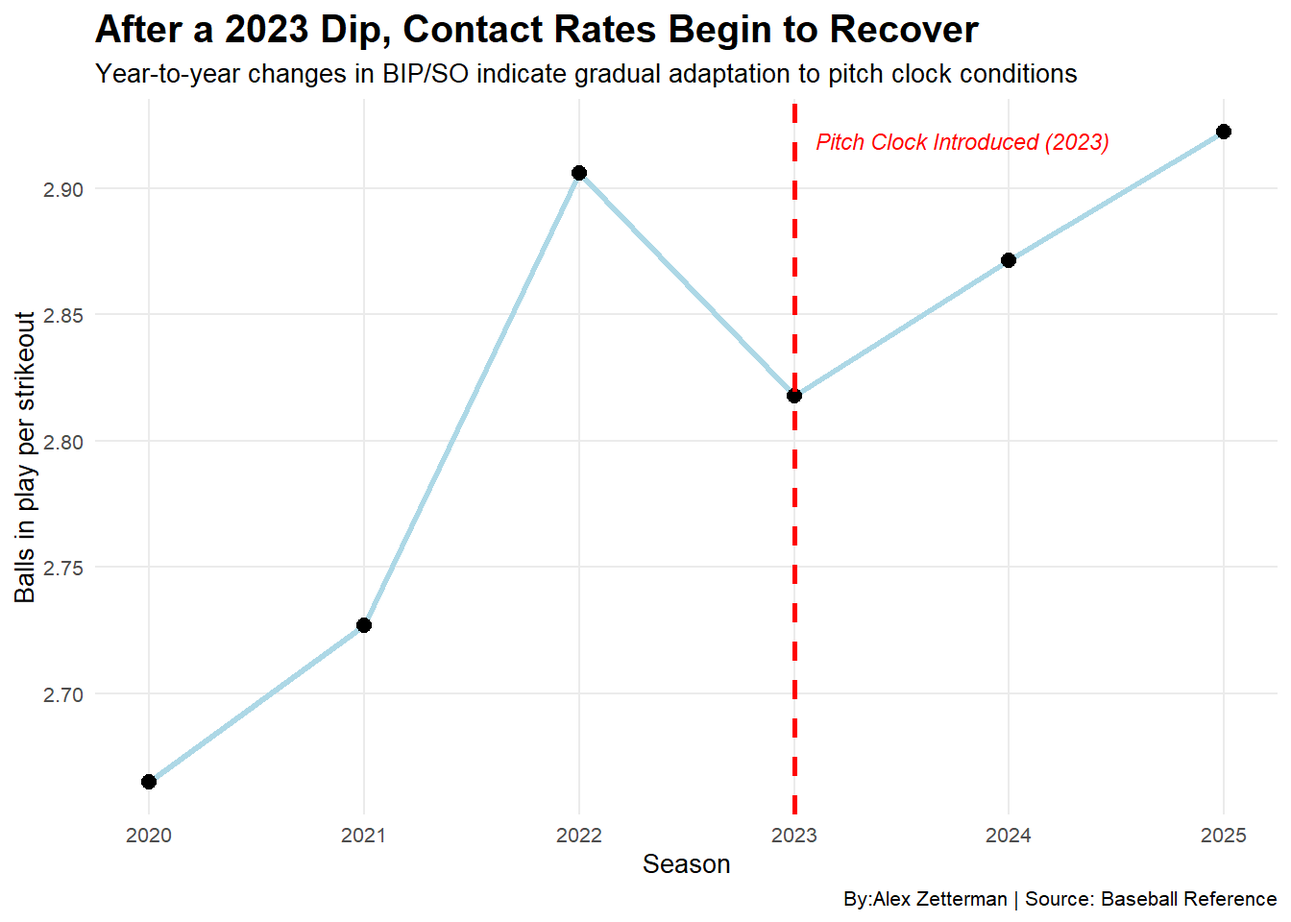
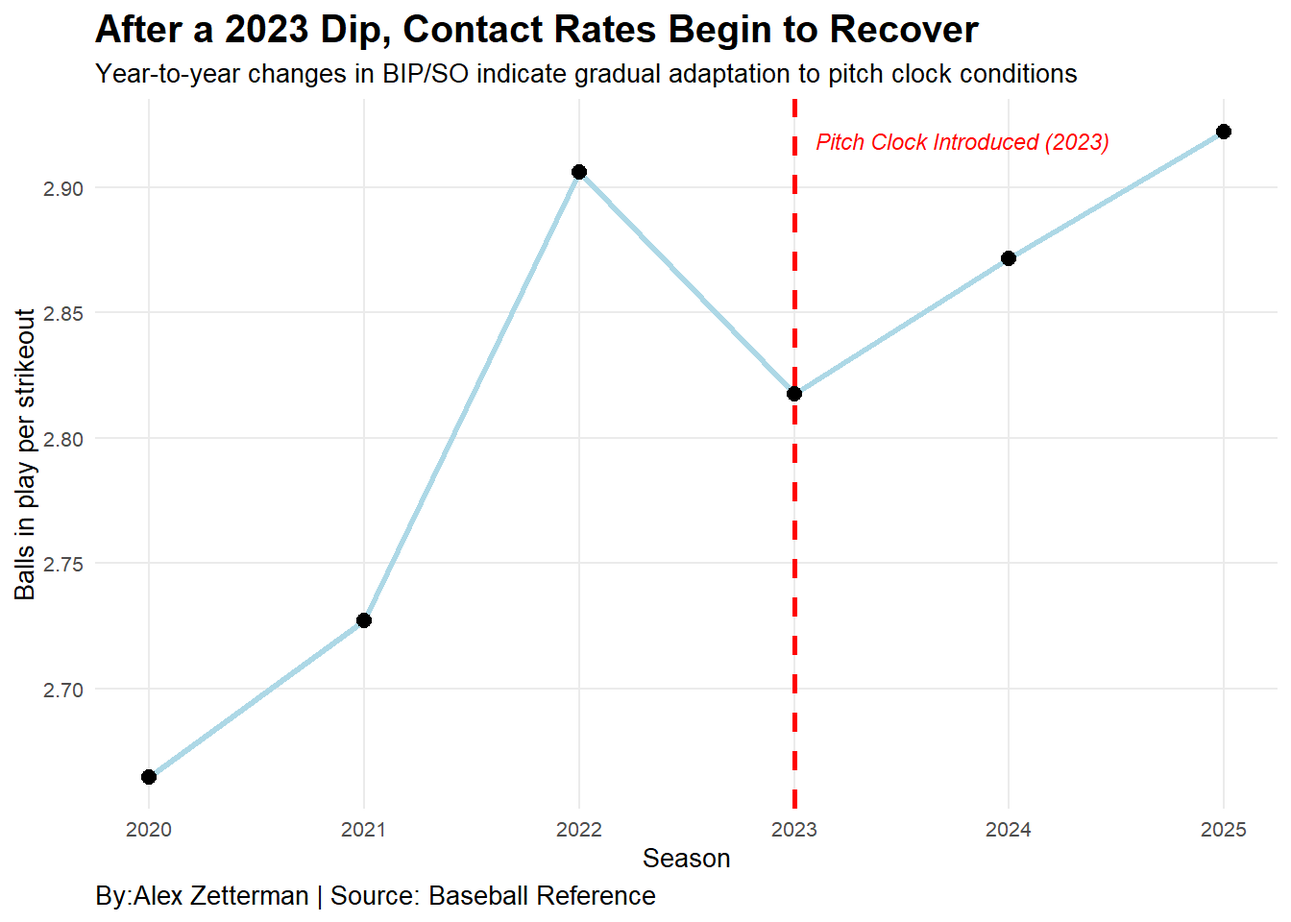
edit

diff --git a/posts/MLB-Pitch-Clock/index.html b/posts/MLB-Pitch-Clock/index.html
@@ -363,7 +363,7 @@ pre > code.sourceCode > span > a:first-child::before { text-decoration: underlin
 
 
 <p>The introduction of the MLB pitch clock was perhaps the most drastic and immediate rule change baseball had seen in decades. The rule change happened after the 2022 baseball season so the first season that had the pitch clock was 2023. The clock fundamentally altered the game’s famous slow cadence. Players, long accustomed to leisurely pacing and endless adjustments on the mound, were now forced into constant motion, transforming a sport once defined by patience into one defined by urgency. This single device, ticking down the seconds, did what years of debate could not. The overall goal, make the game sped up so fans pay more attention. But, someone has to have success off the rule change. Has the batter or pitcher been affected by the pitch clock change more?</p>
-<p>To determine how overall offensive efficiency has shifted, I looked at the league-wide batting splits over the last 6 seasons, to know if there was a batter advantage after the rule changed.</p>
+<p>To determine how overall offensive efficiency has shifted, I looked at the yearly OPS,OBP, and SLG percentages for the three years before the rule change and the three years after the change. Looking at these three statistics we can see if batters truly had an advantage since the rule change.</p>
 <div class="cell">
 <details class="code-fold">
 <summary>Code</summary>
@@ -385,47 +385,60 @@ pre > code.sourceCode > span > a:first-child::before { text-decoration: underlin
 <summary>Code</summary>
 <div class="code-copy-outer-scaffold"><div class="sourceCode cell-code" id="cb3"><pre class="sourceCode r code-with-copy"><code class="sourceCode r"><span id="cb3-1"><a href="#cb3-1" aria-hidden="true" tabindex="-1"></a><span class="fu">library</span>(ggplot2)</span>
 <span id="cb3-2"><a href="#cb3-2" aria-hidden="true" tabindex="-1"></a></span>
-<span id="cb3-3"><a href="#cb3-3" aria-hidden="true" tabindex="-1"></a>MLB <span class="ot">&lt;-</span> <span class="fu">read_csv</span>(<span class="st">"data/MLB.csv"</span>,<span class="at">show_col_types =</span> <span class="cn">FALSE</span>)</span>
-<span id="cb3-4"><a href="#cb3-4" aria-hidden="true" tabindex="-1"></a></span>
-<span id="cb3-5"><a href="#cb3-5" aria-hidden="true" tabindex="-1"></a>obp <span class="ot">&lt;-</span> MLB <span class="sc">|&gt;</span> </span>
-<span id="cb3-6"><a href="#cb3-6" aria-hidden="true" tabindex="-1"></a>  <span class="fu">filter</span>(Year <span class="sc">&gt;=</span> <span class="dv">2020</span> <span class="sc">&amp;</span> Year <span class="sc">&lt;=</span> <span class="dv">2025</span>) <span class="sc">|&gt;</span> </span>
-<span id="cb3-7"><a href="#cb3-7" aria-hidden="true" tabindex="-1"></a>  <span class="fu">select</span>(Year, OBP)</span>
-<span id="cb3-8"><a href="#cb3-8" aria-hidden="true" tabindex="-1"></a></span>
-<span id="cb3-9"><a href="#cb3-9" aria-hidden="true" tabindex="-1"></a>slg <span class="ot">&lt;-</span> MLB <span class="sc">|&gt;</span> </span>
-<span id="cb3-10"><a href="#cb3-10" aria-hidden="true" tabindex="-1"></a>  <span class="fu">filter</span>(Year <span class="sc">&gt;=</span> <span class="dv">2020</span> <span class="sc">&amp;</span> Year <span class="sc">&lt;=</span> <span class="dv">2025</span>) <span class="sc">|&gt;</span> </span>
-<span id="cb3-11"><a href="#cb3-11" aria-hidden="true" tabindex="-1"></a>  <span class="fu">select</span>(Year, SLG)</span>
-<span id="cb3-12"><a href="#cb3-12" aria-hidden="true" tabindex="-1"></a></span>
-<span id="cb3-13"><a href="#cb3-13" aria-hidden="true" tabindex="-1"></a>ops <span class="ot">&lt;-</span> MLB <span class="sc">|&gt;</span> </span>
-<span id="cb3-14"><a href="#cb3-14" aria-hidden="true" tabindex="-1"></a>  <span class="fu">filter</span>(Year <span class="sc">&gt;=</span> <span class="dv">2020</span> <span class="sc">&amp;</span> Year <span class="sc">&lt;=</span> <span class="dv">2025</span>) <span class="sc">|&gt;</span> </span>
-<span id="cb3-15"><a href="#cb3-15" aria-hidden="true" tabindex="-1"></a>  <span class="fu">select</span>(Year, OPS)</span>
-<span id="cb3-16"><a href="#cb3-16" aria-hidden="true" tabindex="-1"></a></span>
-<span id="cb3-17"><a href="#cb3-17" aria-hidden="true" tabindex="-1"></a>MLB_stats <span class="ot">&lt;-</span> MLB <span class="sc">|&gt;</span> </span>
-<span id="cb3-18"><a href="#cb3-18" aria-hidden="true" tabindex="-1"></a>  <span class="fu">filter</span>(Year <span class="sc">&gt;=</span> <span class="dv">2020</span> <span class="sc">&amp;</span> Year <span class="sc">&lt;=</span> <span class="dv">2025</span>) <span class="sc">|&gt;</span> </span>
-<span id="cb3-19"><a href="#cb3-19" aria-hidden="true" tabindex="-1"></a>  <span class="fu">select</span>(Year, OBP, SLG, OPS) <span class="sc">|&gt;</span> </span>
-<span id="cb3-20"><a href="#cb3-20" aria-hidden="true" tabindex="-1"></a>  <span class="fu">pivot_longer</span>(<span class="at">cols =</span> <span class="fu">c</span>(OBP, SLG, OPS),</span>
-<span id="cb3-21"><a href="#cb3-21" aria-hidden="true" tabindex="-1"></a>               <span class="at">names_to =</span> <span class="st">"Statistic"</span>,</span>
-<span id="cb3-22"><a href="#cb3-22" aria-hidden="true" tabindex="-1"></a>               <span class="at">values_to =</span> <span class="st">"Value"</span>)</span>
-<span id="cb3-23"><a href="#cb3-23" aria-hidden="true" tabindex="-1"></a></span>
-<span id="cb3-24"><a href="#cb3-24" aria-hidden="true" tabindex="-1"></a><span class="fu">ggplot</span>(MLB_stats, <span class="fu">aes</span>(<span class="at">x =</span> <span class="fu">factor</span>(Year), <span class="at">y =</span> Value, <span class="at">fill =</span> Statistic)) <span class="sc">+</span></span>
-<span id="cb3-25"><a href="#cb3-25" aria-hidden="true" tabindex="-1"></a>  <span class="fu">geom_bar</span>(<span class="at">stat =</span> <span class="st">"identity"</span>, <span class="at">position =</span> <span class="st">"dodge"</span>) <span class="sc">+</span></span>
-<span id="cb3-26"><a href="#cb3-26" aria-hidden="true" tabindex="-1"></a>  <span class="fu">scale_fill_manual</span>(<span class="at">values =</span> <span class="fu">c</span>(<span class="st">"navyblue"</span>, <span class="st">"lightgrey"</span>, <span class="st">"red"</span>)) <span class="sc">+</span></span>
-<span id="cb3-27"><a href="#cb3-27" aria-hidden="true" tabindex="-1"></a>  <span class="fu">scale_y_continuous</span>(</span>
-<span id="cb3-28"><a href="#cb3-28" aria-hidden="true" tabindex="-1"></a>    <span class="at">breaks =</span> <span class="fu">seq</span>(<span class="dv">0</span>, <span class="fl">0.8</span>, <span class="fl">0.1</span>),  </span>
-<span id="cb3-29"><a href="#cb3-29" aria-hidden="true" tabindex="-1"></a>    <span class="at">limits =</span> <span class="fu">c</span>(<span class="dv">0</span>, <span class="fl">0.8</span>)</span>
-<span id="cb3-30"><a href="#cb3-30" aria-hidden="true" tabindex="-1"></a>  )<span class="sc">+</span></span>
-<span id="cb3-31"><a href="#cb3-31" aria-hidden="true" tabindex="-1"></a>  <span class="fu">labs</span>(</span>
-<span id="cb3-32"><a href="#cb3-32" aria-hidden="true" tabindex="-1"></a>    <span class="at">title =</span> <span class="st">"Offensive Production Holds Steady Despite the Pitch Clock"</span>,</span>
-<span id="cb3-33"><a href="#cb3-33" aria-hidden="true" tabindex="-1"></a>    <span class="at">subtitle=</span> <span class="st">"The pitch clock may have changed timing, but not results at the plate"</span>,</span>
-<span id="cb3-34"><a href="#cb3-34" aria-hidden="true" tabindex="-1"></a>    <span class="at">caption =</span> <span class="st">"By:Alex Zetterman | Source: Baseball Reference"</span>,</span>
-<span id="cb3-35"><a href="#cb3-35" aria-hidden="true" tabindex="-1"></a>    <span class="at">x =</span> <span class="st">"Season"</span>,</span>
-<span id="cb3-36"><a href="#cb3-36" aria-hidden="true" tabindex="-1"></a>    <span class="at">y =</span> <span class="st">"percentages"</span>,</span>
-<span id="cb3-37"><a href="#cb3-37" aria-hidden="true" tabindex="-1"></a>    <span class="at">fill =</span> <span class="st">"Statistic"</span></span>
-<span id="cb3-38"><a href="#cb3-38" aria-hidden="true" tabindex="-1"></a>  ) <span class="sc">+</span></span>
-<span id="cb3-39"><a href="#cb3-39" aria-hidden="true" tabindex="-1"></a>  <span class="fu">theme_minimal</span>(<span class="at">base_size =</span> <span class="dv">11</span>) <span class="sc">+</span></span>
-<span id="cb3-40"><a href="#cb3-40" aria-hidden="true" tabindex="-1"></a>  <span class="fu">theme</span>(</span>
-<span id="cb3-41"><a href="#cb3-41" aria-hidden="true" tabindex="-1"></a>    <span class="at">plot.title =</span> <span class="fu">element_text</span>(<span class="at">face =</span> <span class="st">"bold"</span>),</span>
-<span id="cb3-42"><a href="#cb3-42" aria-hidden="true" tabindex="-1"></a>    <span class="at">legend.position =</span> <span class="st">"top"</span></span>
-<span id="cb3-43"><a href="#cb3-43" aria-hidden="true" tabindex="-1"></a>  )</span></code></pre></div><button title="Copy to Clipboard" class="code-copy-button"><i class="bi"></i></button></div>
+<span id="cb3-3"><a href="#cb3-3" aria-hidden="true" tabindex="-1"></a>MLB <span class="ot">&lt;-</span> <span class="fu">read_csv</span>(<span class="st">"data/MLB.csv"</span>)</span></code></pre></div><button title="Copy to Clipboard" class="code-copy-button"><i class="bi"></i></button></div>
+</details>
+<div class="cell-output cell-output-stderr">
+<pre><code>Rows: 155 Columns: 30
+── Column specification ────────────────────────────────────────────────────────
+Delimiter: ","
+chr  (1): RBI
+dbl (29): Year, Tms, #Bat, BatAge, R/G, G, PA, AB, R, H, 1B, 2B, 3B, HR, SB,...
+
+ℹ Use `spec()` to retrieve the full column specification for this data.
+ℹ Specify the column types or set `show_col_types = FALSE` to quiet this message.</code></pre>
+</div>
+<details class="code-fold">
+<summary>Code</summary>
+<div class="code-copy-outer-scaffold"><div class="sourceCode cell-code" id="cb5"><pre class="sourceCode r code-with-copy"><code class="sourceCode r"><span id="cb5-1"><a href="#cb5-1" aria-hidden="true" tabindex="-1"></a>obp <span class="ot">&lt;-</span> MLB <span class="sc">|&gt;</span> </span>
+<span id="cb5-2"><a href="#cb5-2" aria-hidden="true" tabindex="-1"></a>  <span class="fu">filter</span>(Year <span class="sc">&gt;=</span> <span class="dv">2020</span> <span class="sc">&amp;</span> Year <span class="sc">&lt;=</span> <span class="dv">2025</span>) <span class="sc">|&gt;</span> </span>
+<span id="cb5-3"><a href="#cb5-3" aria-hidden="true" tabindex="-1"></a>  <span class="fu">select</span>(Year, OBP)</span>
+<span id="cb5-4"><a href="#cb5-4" aria-hidden="true" tabindex="-1"></a></span>
+<span id="cb5-5"><a href="#cb5-5" aria-hidden="true" tabindex="-1"></a>slg <span class="ot">&lt;-</span> MLB <span class="sc">|&gt;</span> </span>
+<span id="cb5-6"><a href="#cb5-6" aria-hidden="true" tabindex="-1"></a>  <span class="fu">filter</span>(Year <span class="sc">&gt;=</span> <span class="dv">2020</span> <span class="sc">&amp;</span> Year <span class="sc">&lt;=</span> <span class="dv">2025</span>) <span class="sc">|&gt;</span> </span>
+<span id="cb5-7"><a href="#cb5-7" aria-hidden="true" tabindex="-1"></a>  <span class="fu">select</span>(Year, SLG)</span>
+<span id="cb5-8"><a href="#cb5-8" aria-hidden="true" tabindex="-1"></a></span>
+<span id="cb5-9"><a href="#cb5-9" aria-hidden="true" tabindex="-1"></a>ops <span class="ot">&lt;-</span> MLB <span class="sc">|&gt;</span> </span>
+<span id="cb5-10"><a href="#cb5-10" aria-hidden="true" tabindex="-1"></a>  <span class="fu">filter</span>(Year <span class="sc">&gt;=</span> <span class="dv">2020</span> <span class="sc">&amp;</span> Year <span class="sc">&lt;=</span> <span class="dv">2025</span>) <span class="sc">|&gt;</span> </span>
+<span id="cb5-11"><a href="#cb5-11" aria-hidden="true" tabindex="-1"></a>  <span class="fu">select</span>(Year, OPS)</span>
+<span id="cb5-12"><a href="#cb5-12" aria-hidden="true" tabindex="-1"></a></span>
+<span id="cb5-13"><a href="#cb5-13" aria-hidden="true" tabindex="-1"></a>MLB_stats <span class="ot">&lt;-</span> MLB <span class="sc">|&gt;</span> </span>
+<span id="cb5-14"><a href="#cb5-14" aria-hidden="true" tabindex="-1"></a>  <span class="fu">filter</span>(Year <span class="sc">&gt;=</span> <span class="dv">2020</span> <span class="sc">&amp;</span> Year <span class="sc">&lt;=</span> <span class="dv">2025</span>) <span class="sc">|&gt;</span> </span>
+<span id="cb5-15"><a href="#cb5-15" aria-hidden="true" tabindex="-1"></a>  <span class="fu">select</span>(Year, OBP, SLG, OPS) <span class="sc">|&gt;</span> </span>
+<span id="cb5-16"><a href="#cb5-16" aria-hidden="true" tabindex="-1"></a>  <span class="fu">pivot_longer</span>(<span class="at">cols =</span> <span class="fu">c</span>(OBP, SLG, OPS),</span>
+<span id="cb5-17"><a href="#cb5-17" aria-hidden="true" tabindex="-1"></a>               <span class="at">names_to =</span> <span class="st">"Statistic"</span>,</span>
+<span id="cb5-18"><a href="#cb5-18" aria-hidden="true" tabindex="-1"></a>               <span class="at">values_to =</span> <span class="st">"Value"</span>)</span>
+<span id="cb5-19"><a href="#cb5-19" aria-hidden="true" tabindex="-1"></a></span>
+<span id="cb5-20"><a href="#cb5-20" aria-hidden="true" tabindex="-1"></a><span class="fu">ggplot</span>(MLB_stats, <span class="fu">aes</span>(<span class="at">x =</span> <span class="fu">factor</span>(Year), <span class="at">y =</span> Value, <span class="at">fill =</span> Statistic)) <span class="sc">+</span></span>
+<span id="cb5-21"><a href="#cb5-21" aria-hidden="true" tabindex="-1"></a>  <span class="fu">geom_bar</span>(<span class="at">stat =</span> <span class="st">"identity"</span>, <span class="at">position =</span> <span class="st">"dodge"</span>) <span class="sc">+</span></span>
+<span id="cb5-22"><a href="#cb5-22" aria-hidden="true" tabindex="-1"></a>  <span class="fu">scale_fill_manual</span>(<span class="at">values =</span> <span class="fu">c</span>(<span class="st">"navyblue"</span>, <span class="st">"lightgrey"</span>, <span class="st">"red"</span>)) <span class="sc">+</span></span>
+<span id="cb5-23"><a href="#cb5-23" aria-hidden="true" tabindex="-1"></a>  <span class="fu">scale_y_continuous</span>(</span>
+<span id="cb5-24"><a href="#cb5-24" aria-hidden="true" tabindex="-1"></a>    <span class="at">breaks =</span> <span class="fu">seq</span>(<span class="dv">0</span>, <span class="fl">0.8</span>, <span class="fl">0.1</span>),  </span>
+<span id="cb5-25"><a href="#cb5-25" aria-hidden="true" tabindex="-1"></a>    <span class="at">limits =</span> <span class="fu">c</span>(<span class="dv">0</span>, <span class="fl">0.8</span>)</span>
+<span id="cb5-26"><a href="#cb5-26" aria-hidden="true" tabindex="-1"></a>  )<span class="sc">+</span></span>
+<span id="cb5-27"><a href="#cb5-27" aria-hidden="true" tabindex="-1"></a>  <span class="fu">labs</span>(</span>
+<span id="cb5-28"><a href="#cb5-28" aria-hidden="true" tabindex="-1"></a>    <span class="at">title =</span> <span class="st">"Offensive Production Holds Steady Despite the Pitch Clock"</span>,</span>
+<span id="cb5-29"><a href="#cb5-29" aria-hidden="true" tabindex="-1"></a>    <span class="at">subtitle=</span> <span class="st">"The pitch clock may have changed timing, but not results at the plate"</span>,</span>
+<span id="cb5-30"><a href="#cb5-30" aria-hidden="true" tabindex="-1"></a>    <span class="at">caption =</span> <span class="st">"By:Alex Zetterman | Source: Baseball Reference"</span>,</span>
+<span id="cb5-31"><a href="#cb5-31" aria-hidden="true" tabindex="-1"></a>    <span class="at">x =</span> <span class="st">"Season"</span>,</span>
+<span id="cb5-32"><a href="#cb5-32" aria-hidden="true" tabindex="-1"></a>    <span class="at">y =</span> <span class="st">"percentages"</span>,</span>
+<span id="cb5-33"><a href="#cb5-33" aria-hidden="true" tabindex="-1"></a>    <span class="at">fill =</span> <span class="st">"Statistic"</span></span>
+<span id="cb5-34"><a href="#cb5-34" aria-hidden="true" tabindex="-1"></a>  ) <span class="sc">+</span></span>
+<span id="cb5-35"><a href="#cb5-35" aria-hidden="true" tabindex="-1"></a>  <span class="fu">theme_minimal</span>(<span class="at">base_size =</span> <span class="dv">11</span>) <span class="sc">+</span></span>
+<span id="cb5-36"><a href="#cb5-36" aria-hidden="true" tabindex="-1"></a>  <span class="fu">theme</span>(</span>
+<span id="cb5-37"><a href="#cb5-37" aria-hidden="true" tabindex="-1"></a>    <span class="at">plot.title =</span> <span class="fu">element_text</span>(<span class="at">face =</span> <span class="st">"bold"</span>),</span>
+<span id="cb5-38"><a href="#cb5-38" aria-hidden="true" tabindex="-1"></a>    <span class="at">plot.caption =</span> <span class="fu">element_text</span>(<span class="at">size=</span><span class="dv">10</span>, <span class="at">hjust =</span> <span class="dv">0</span>),</span>
+<span id="cb5-39"><a href="#cb5-39" aria-hidden="true" tabindex="-1"></a>    <span class="at">legend.position =</span> <span class="st">"top"</span></span>
+<span id="cb5-40"><a href="#cb5-40" aria-hidden="true" tabindex="-1"></a>  )</span></code></pre></div><button title="Copy to Clipboard" class="code-copy-button"><i class="bi"></i></button></div>
 </details>
 <div class="cell-output-display">
 <div>
@@ -440,40 +453,39 @@ pre > code.sourceCode > span > a:first-child::before { text-decoration: underlin
 <div class="cell">
 <details class="code-fold">
 <summary>Code</summary>
-<div class="code-copy-outer-scaffold"><div class="sourceCode cell-code" id="cb4"><pre class="sourceCode r code-with-copy"><code class="sourceCode r"><span id="cb4-1"><a href="#cb4-1" aria-hidden="true" tabindex="-1"></a><span class="fu">library</span>(tidyverse)</span>
-<span id="cb4-2"><a href="#cb4-2" aria-hidden="true" tabindex="-1"></a></span>
-<span id="cb4-3"><a href="#cb4-3" aria-hidden="true" tabindex="-1"></a>contact_eff <span class="ot">&lt;-</span> MLB <span class="sc">|&gt;</span></span>
-<span id="cb4-4"><a href="#cb4-4" aria-hidden="true" tabindex="-1"></a>  <span class="fu">filter</span>(Year <span class="sc">&gt;=</span> <span class="dv">2020</span> <span class="sc">&amp;</span> Year <span class="sc">&lt;=</span> <span class="dv">2025</span>) <span class="sc">|&gt;</span></span>
-<span id="cb4-5"><a href="#cb4-5" aria-hidden="true" tabindex="-1"></a>  <span class="fu">group_by</span>(Year) <span class="sc">|&gt;</span></span>
-<span id="cb4-6"><a href="#cb4-6" aria-hidden="true" tabindex="-1"></a>  <span class="fu">summarise</span>(</span>
-<span id="cb4-7"><a href="#cb4-7" aria-hidden="true" tabindex="-1"></a>    <span class="at">Total_BIP =</span> <span class="fu">sum</span>(BIP, <span class="at">na.rm =</span> <span class="cn">TRUE</span>),</span>
-<span id="cb4-8"><a href="#cb4-8" aria-hidden="true" tabindex="-1"></a>    <span class="at">Total_SO =</span> <span class="fu">sum</span>(SO, <span class="at">na.rm =</span> <span class="cn">TRUE</span>),</span>
-<span id="cb4-9"><a href="#cb4-9" aria-hidden="true" tabindex="-1"></a>    <span class="at">Contact_Efficiency =</span> Total_BIP <span class="sc">/</span> Total_SO</span>
-<span id="cb4-10"><a href="#cb4-10" aria-hidden="true" tabindex="-1"></a>  )</span>
-<span id="cb4-11"><a href="#cb4-11" aria-hidden="true" tabindex="-1"></a></span>
-<span id="cb4-12"><a href="#cb4-12" aria-hidden="true" tabindex="-1"></a><span class="co"># Line chart</span></span>
-<span id="cb4-13"><a href="#cb4-13" aria-hidden="true" tabindex="-1"></a><span class="fu">ggplot</span>(contact_eff, <span class="fu">aes</span>(<span class="at">x =</span> Year, <span class="at">y =</span> Contact_Efficiency)) <span class="sc">+</span></span>
-<span id="cb4-14"><a href="#cb4-14" aria-hidden="true" tabindex="-1"></a>  <span class="fu">geom_line</span>(<span class="at">color =</span> <span class="st">"lightblue"</span>, <span class="at">size =</span> <span class="fl">1.2</span>) <span class="sc">+</span></span>
-<span id="cb4-15"><a href="#cb4-15" aria-hidden="true" tabindex="-1"></a>  <span class="fu">geom_point</span>(<span class="at">color =</span> <span class="st">"black"</span>, <span class="at">size =</span> <span class="fl">2.5</span>) <span class="sc">+</span></span>
-<span id="cb4-16"><a href="#cb4-16" aria-hidden="true" tabindex="-1"></a>  </span>
-<span id="cb4-17"><a href="#cb4-17" aria-hidden="true" tabindex="-1"></a>  <span class="fu">geom_vline</span>(<span class="at">xintercept =</span> <span class="dv">2023</span>, <span class="at">linetype =</span> <span class="st">"dashed"</span>, <span class="at">color =</span> <span class="st">"red"</span>, <span class="at">size =</span> <span class="dv">1</span>) <span class="sc">+</span></span>
-<span id="cb4-18"><a href="#cb4-18" aria-hidden="true" tabindex="-1"></a>  <span class="fu">annotate</span>(<span class="st">"text"</span>, <span class="at">x =</span> <span class="fl">2023.1</span>, <span class="at">y =</span> <span class="fu">max</span>(contact_eff<span class="sc">$</span>Contact_Efficiency, <span class="at">na.rm =</span> <span class="cn">TRUE</span>),</span>
-<span id="cb4-19"><a href="#cb4-19" aria-hidden="true" tabindex="-1"></a>           <span class="at">label =</span> <span class="st">"Pitch Clock Introduced (2023)"</span>,</span>
-<span id="cb4-20"><a href="#cb4-20" aria-hidden="true" tabindex="-1"></a>           <span class="at">hjust =</span> <span class="dv">0</span>, <span class="at">vjust =</span> <span class="dv">1</span>, <span class="at">color =</span> <span class="st">"red"</span>, <span class="at">size =</span> <span class="dv">3</span>, <span class="at">fontface =</span> <span class="st">"italic"</span>) <span class="sc">+</span></span>
-<span id="cb4-21"><a href="#cb4-21" aria-hidden="true" tabindex="-1"></a>  </span>
-<span id="cb4-22"><a href="#cb4-22" aria-hidden="true" tabindex="-1"></a>  <span class="fu">labs</span>(</span>
-<span id="cb4-23"><a href="#cb4-23" aria-hidden="true" tabindex="-1"></a>    <span class="at">title =</span> <span class="st">"After a 2023 Dip, Contact Rates Begin to Recover"</span>,</span>
-<span id="cb4-24"><a href="#cb4-24" aria-hidden="true" tabindex="-1"></a>    <span class="at">subtitle =</span> <span class="st">"Year-to-year changes in BIP/SO indicate gradual adaptation to pitch clock conditions"</span>,</span>
-<span id="cb4-25"><a href="#cb4-25" aria-hidden="true" tabindex="-1"></a>    <span class="at">caption =</span> <span class="st">"By:Alex Zetterman | Source: Baseball Reference"</span>,</span>
-<span id="cb4-26"><a href="#cb4-26" aria-hidden="true" tabindex="-1"></a>    <span class="at">x =</span> <span class="st">"Season"</span>,</span>
-<span id="cb4-27"><a href="#cb4-27" aria-hidden="true" tabindex="-1"></a>    <span class="at">y =</span> <span class="st">"Balls in play per strikeout"</span>,</span>
-<span id="cb4-28"><a href="#cb4-28" aria-hidden="true" tabindex="-1"></a></span>
-<span id="cb4-29"><a href="#cb4-29" aria-hidden="true" tabindex="-1"></a>  ) <span class="sc">+</span></span>
-<span id="cb4-30"><a href="#cb4-30" aria-hidden="true" tabindex="-1"></a>  <span class="fu">theme_minimal</span>(<span class="at">base_size =</span> <span class="dv">10</span>) <span class="sc">+</span></span>
-<span id="cb4-31"><a href="#cb4-31" aria-hidden="true" tabindex="-1"></a>  <span class="fu">theme</span>(</span>
-<span id="cb4-32"><a href="#cb4-32" aria-hidden="true" tabindex="-1"></a>    <span class="at">plot.title =</span> <span class="fu">element_text</span>(<span class="at">face =</span> <span class="st">"bold"</span>, <span class="at">size=</span> <span class="dv">15</span>),</span>
-<span id="cb4-33"><a href="#cb4-33" aria-hidden="true" tabindex="-1"></a>    <span class="at">panel.grid.minor =</span> <span class="fu">element_blank</span>()</span>
-<span id="cb4-34"><a href="#cb4-34" aria-hidden="true" tabindex="-1"></a>  )</span></code></pre></div><button title="Copy to Clipboard" class="code-copy-button"><i class="bi"></i></button></div>
+<div class="code-copy-outer-scaffold"><div class="sourceCode cell-code" id="cb6"><pre class="sourceCode r code-with-copy"><code class="sourceCode r"><span id="cb6-1"><a href="#cb6-1" aria-hidden="true" tabindex="-1"></a>contact_eff <span class="ot">&lt;-</span> MLB <span class="sc">|&gt;</span></span>
+<span id="cb6-2"><a href="#cb6-2" aria-hidden="true" tabindex="-1"></a>  <span class="fu">filter</span>(Year <span class="sc">&gt;=</span> <span class="dv">2020</span> <span class="sc">&amp;</span> Year <span class="sc">&lt;=</span> <span class="dv">2025</span>) <span class="sc">|&gt;</span></span>
+<span id="cb6-3"><a href="#cb6-3" aria-hidden="true" tabindex="-1"></a>  <span class="fu">group_by</span>(Year) <span class="sc">|&gt;</span></span>
+<span id="cb6-4"><a href="#cb6-4" aria-hidden="true" tabindex="-1"></a>  <span class="fu">summarise</span>(</span>
+<span id="cb6-5"><a href="#cb6-5" aria-hidden="true" tabindex="-1"></a>    <span class="at">Total_BIP =</span> <span class="fu">sum</span>(BIP, <span class="at">na.rm =</span> <span class="cn">TRUE</span>),</span>
+<span id="cb6-6"><a href="#cb6-6" aria-hidden="true" tabindex="-1"></a>    <span class="at">Total_SO =</span> <span class="fu">sum</span>(SO, <span class="at">na.rm =</span> <span class="cn">TRUE</span>),</span>
+<span id="cb6-7"><a href="#cb6-7" aria-hidden="true" tabindex="-1"></a>    <span class="at">Contact_Efficiency =</span> Total_BIP <span class="sc">/</span> Total_SO</span>
+<span id="cb6-8"><a href="#cb6-8" aria-hidden="true" tabindex="-1"></a>  )</span>
+<span id="cb6-9"><a href="#cb6-9" aria-hidden="true" tabindex="-1"></a></span>
+<span id="cb6-10"><a href="#cb6-10" aria-hidden="true" tabindex="-1"></a><span class="co"># Line chart</span></span>
+<span id="cb6-11"><a href="#cb6-11" aria-hidden="true" tabindex="-1"></a><span class="fu">ggplot</span>(contact_eff, <span class="fu">aes</span>(<span class="at">x =</span> Year, <span class="at">y =</span> Contact_Efficiency)) <span class="sc">+</span></span>
+<span id="cb6-12"><a href="#cb6-12" aria-hidden="true" tabindex="-1"></a>  <span class="fu">geom_line</span>(<span class="at">color =</span> <span class="st">"lightblue"</span>, <span class="at">size =</span> <span class="fl">1.2</span>) <span class="sc">+</span></span>
+<span id="cb6-13"><a href="#cb6-13" aria-hidden="true" tabindex="-1"></a>  <span class="fu">geom_point</span>(<span class="at">color =</span> <span class="st">"black"</span>, <span class="at">size =</span> <span class="fl">2.5</span>) <span class="sc">+</span></span>
+<span id="cb6-14"><a href="#cb6-14" aria-hidden="true" tabindex="-1"></a>  </span>
+<span id="cb6-15"><a href="#cb6-15" aria-hidden="true" tabindex="-1"></a>  <span class="fu">geom_vline</span>(<span class="at">xintercept =</span> <span class="dv">2023</span>, <span class="at">linetype =</span> <span class="st">"dashed"</span>, <span class="at">color =</span> <span class="st">"red"</span>, <span class="at">size =</span> <span class="dv">1</span>) <span class="sc">+</span></span>
+<span id="cb6-16"><a href="#cb6-16" aria-hidden="true" tabindex="-1"></a>  <span class="fu">annotate</span>(<span class="st">"text"</span>, <span class="at">x =</span> <span class="fl">2023.1</span>, <span class="at">y =</span> <span class="fu">max</span>(contact_eff<span class="sc">$</span>Contact_Efficiency, <span class="at">na.rm =</span> <span class="cn">TRUE</span>),</span>
+<span id="cb6-17"><a href="#cb6-17" aria-hidden="true" tabindex="-1"></a>           <span class="at">label =</span> <span class="st">"Pitch Clock Introduced (2023)"</span>,</span>
+<span id="cb6-18"><a href="#cb6-18" aria-hidden="true" tabindex="-1"></a>           <span class="at">hjust =</span> <span class="dv">0</span>, <span class="at">vjust =</span> <span class="dv">1</span>, <span class="at">color =</span> <span class="st">"red"</span>, <span class="at">size =</span> <span class="dv">3</span>, <span class="at">fontface =</span> <span class="st">"italic"</span>) <span class="sc">+</span></span>
+<span id="cb6-19"><a href="#cb6-19" aria-hidden="true" tabindex="-1"></a>  </span>
+<span id="cb6-20"><a href="#cb6-20" aria-hidden="true" tabindex="-1"></a>  <span class="fu">labs</span>(</span>
+<span id="cb6-21"><a href="#cb6-21" aria-hidden="true" tabindex="-1"></a>    <span class="at">title =</span> <span class="st">"After a 2023 Dip, Contact Rates Begin to Recover"</span>,</span>
+<span id="cb6-22"><a href="#cb6-22" aria-hidden="true" tabindex="-1"></a>    <span class="at">subtitle =</span> <span class="st">"Year-to-year changes in BIP/SO indicate gradual adaptation to pitch clock conditions"</span>,</span>
+<span id="cb6-23"><a href="#cb6-23" aria-hidden="true" tabindex="-1"></a>    <span class="at">caption =</span> <span class="st">"By:Alex Zetterman | Source: Baseball Reference"</span>,</span>
+<span id="cb6-24"><a href="#cb6-24" aria-hidden="true" tabindex="-1"></a>    <span class="at">x =</span> <span class="st">"Season"</span>,</span>
+<span id="cb6-25"><a href="#cb6-25" aria-hidden="true" tabindex="-1"></a>    <span class="at">y =</span> <span class="st">"Balls in play per strikeout"</span>,</span>
+<span id="cb6-26"><a href="#cb6-26" aria-hidden="true" tabindex="-1"></a></span>
+<span id="cb6-27"><a href="#cb6-27" aria-hidden="true" tabindex="-1"></a>  ) <span class="sc">+</span></span>
+<span id="cb6-28"><a href="#cb6-28" aria-hidden="true" tabindex="-1"></a>  <span class="fu">theme_minimal</span>(<span class="at">base_size =</span> <span class="dv">10</span>) <span class="sc">+</span></span>
+<span id="cb6-29"><a href="#cb6-29" aria-hidden="true" tabindex="-1"></a>  <span class="fu">theme</span>(</span>
+<span id="cb6-30"><a href="#cb6-30" aria-hidden="true" tabindex="-1"></a>    <span class="at">plot.title =</span> <span class="fu">element_text</span>(<span class="at">face =</span> <span class="st">"bold"</span>, <span class="at">size=</span> <span class="dv">15</span>),</span>
+<span id="cb6-31"><a href="#cb6-31" aria-hidden="true" tabindex="-1"></a>    <span class="at">plot.caption =</span> <span class="fu">element_text</span>(<span class="at">size=</span><span class="dv">10</span>, <span class="at">hjust =</span> <span class="dv">0</span>),</span>
+<span id="cb6-32"><a href="#cb6-32" aria-hidden="true" tabindex="-1"></a>    <span class="at">panel.grid.minor =</span> <span class="fu">element_blank</span>()</span>
+<span id="cb6-33"><a href="#cb6-33" aria-hidden="true" tabindex="-1"></a>  )</span></code></pre></div><button title="Copy to Clipboard" class="code-copy-button"><i class="bi"></i></button></div>
 </details>
 <div class="cell-output cell-output-stderr">
 <pre><code>Warning: Using `size` aesthetic for lines was deprecated in ggplot2 3.4.0.
@@ -488,6 +500,55 @@ pre > code.sourceCode > span > a:first-child::before { text-decoration: underlin
 </div>
 </div>
 <p>When the pitch clock was first introduced in 2023, contact efficiency took an immediate dip suggesting that hitters initially struggled to adjust to the faster tempo. The sudden pace may have led to more rushed swings and fewer quality at-bats early on. However, from 2023 to 2025, the league’s Contact Efficiency Ratio climbed from around 2.82 to 2.92, showing that hitters quickly adapted to the new rhythm. This rebound suggests that while pitchers benefited early from the rule change, batters have since found their timing again, leading to more balls in play and a return to offensive balance.</p>
+<p>After looking at how hitters adjusted, it’s equally important to examine how pitchers responded to the new pace. One of the clearest ways to see this is by comparing how often pitchers threw strikes versus balls. By charting strikeouts against walks across seasons, we can see whether the pitch clock improved pitcher command or forced them into sloppier, rushed deliveries.</p>
+<div class="cell">
+<details class="code-fold">
+<summary>Code</summary>
+<div class="code-copy-outer-scaffold"><div class="sourceCode cell-code" id="cb8"><pre class="sourceCode r code-with-copy"><code class="sourceCode r"><span id="cb8-1"><a href="#cb8-1" aria-hidden="true" tabindex="-1"></a>scatter_data <span class="ot">&lt;-</span> MLB <span class="sc">|&gt;</span></span>
+<span id="cb8-2"><a href="#cb8-2" aria-hidden="true" tabindex="-1"></a>  <span class="fu">filter</span>(Year <span class="sc">&gt;=</span> <span class="dv">2020</span> <span class="sc">&amp;</span> Year <span class="sc">&lt;=</span> <span class="dv">2025</span>) <span class="sc">|&gt;</span></span>
+<span id="cb8-3"><a href="#cb8-3" aria-hidden="true" tabindex="-1"></a>  <span class="fu">group_by</span>(Year) <span class="sc">|&gt;</span></span>
+<span id="cb8-4"><a href="#cb8-4" aria-hidden="true" tabindex="-1"></a>  <span class="fu">summarise</span>(</span>
+<span id="cb8-5"><a href="#cb8-5" aria-hidden="true" tabindex="-1"></a>    <span class="at">BB =</span> <span class="fu">sum</span>(BB, <span class="at">na.rm =</span> <span class="cn">TRUE</span>),</span>
+<span id="cb8-6"><a href="#cb8-6" aria-hidden="true" tabindex="-1"></a>    <span class="at">SO =</span> <span class="fu">sum</span>(SO, <span class="at">na.rm =</span> <span class="cn">TRUE</span>)</span>
+<span id="cb8-7"><a href="#cb8-7" aria-hidden="true" tabindex="-1"></a>  )</span>
+<span id="cb8-8"><a href="#cb8-8" aria-hidden="true" tabindex="-1"></a><span class="fu">ggplot</span>(scatter_data, <span class="fu">aes</span>(<span class="at">x =</span> BB, <span class="at">y =</span> SO)) <span class="sc">+</span></span>
+<span id="cb8-9"><a href="#cb8-9" aria-hidden="true" tabindex="-1"></a>  <span class="fu">geom_point</span>(<span class="at">color =</span> <span class="st">"darkred"</span>, <span class="at">size =</span> <span class="dv">3</span>) <span class="sc">+</span></span>
+<span id="cb8-10"><a href="#cb8-10" aria-hidden="true" tabindex="-1"></a>  <span class="fu">geom_text</span>(<span class="fu">aes</span>(<span class="at">label =</span> Year), <span class="at">vjust =</span> <span class="sc">+</span><span class="fl">1.3</span>, <span class="at">size =</span> <span class="dv">4</span>) <span class="sc">+</span></span>
+<span id="cb8-11"><a href="#cb8-11" aria-hidden="true" tabindex="-1"></a>  </span>
+<span id="cb8-12"><a href="#cb8-12" aria-hidden="true" tabindex="-1"></a>  <span class="fu">scale_x_continuous</span>(<span class="at">limits =</span> <span class="fu">c</span>(<span class="dv">3</span>, <span class="fl">3.4</span>)) <span class="sc">+</span></span>
+<span id="cb8-13"><a href="#cb8-13" aria-hidden="true" tabindex="-1"></a>  <span class="fu">scale_y_continuous</span>(<span class="at">limits =</span> <span class="fu">c</span>(<span class="fl">8.3</span>, <span class="fl">8.8</span>)) <span class="sc">+</span></span>
+<span id="cb8-14"><a href="#cb8-14" aria-hidden="true" tabindex="-1"></a>  </span>
+<span id="cb8-15"><a href="#cb8-15" aria-hidden="true" tabindex="-1"></a>  <span class="fu">labs</span>(</span>
+<span id="cb8-16"><a href="#cb8-16" aria-hidden="true" tabindex="-1"></a>    <span class="at">title =</span> <span class="st">"Walk and Strikeout Rates Drop in Pitch-Clock Era"</span>,</span>
+<span id="cb8-17"><a href="#cb8-17" aria-hidden="true" tabindex="-1"></a>    <span class="at">subtitle =</span> <span class="st">"Faster tempo changes how pitchers and hitters approach each plate appearance"</span>,</span>
+<span id="cb8-18"><a href="#cb8-18" aria-hidden="true" tabindex="-1"></a>    <span class="at">caption =</span>  <span class="st">"By:Alex Zetterman | Source: Baseball Reference"</span>,</span>
+<span id="cb8-19"><a href="#cb8-19" aria-hidden="true" tabindex="-1"></a>    <span class="at">x =</span> <span class="st">"Walks"</span>,</span>
+<span id="cb8-20"><a href="#cb8-20" aria-hidden="true" tabindex="-1"></a>    <span class="at">y =</span> <span class="st">"Strikeouts"</span></span>
+<span id="cb8-21"><a href="#cb8-21" aria-hidden="true" tabindex="-1"></a>  ) <span class="sc">+</span></span>
+<span id="cb8-22"><a href="#cb8-22" aria-hidden="true" tabindex="-1"></a>  </span>
+<span id="cb8-23"><a href="#cb8-23" aria-hidden="true" tabindex="-1"></a>  <span class="fu">theme_minimal</span>(<span class="at">base_size =</span> <span class="dv">1</span>) <span class="sc">+</span></span>
+<span id="cb8-24"><a href="#cb8-24" aria-hidden="true" tabindex="-1"></a>  <span class="fu">theme</span>(</span>
+<span id="cb8-25"><a href="#cb8-25" aria-hidden="true" tabindex="-1"></a>    <span class="at">axis.text.x =</span> <span class="fu">element_text</span>(<span class="at">size =</span> <span class="dv">10</span>),</span>
+<span id="cb8-26"><a href="#cb8-26" aria-hidden="true" tabindex="-1"></a>    <span class="at">axis.text.y =</span> <span class="fu">element_text</span>(<span class="at">size =</span> <span class="dv">10</span>),</span>
+<span id="cb8-27"><a href="#cb8-27" aria-hidden="true" tabindex="-1"></a>    <span class="at">axis.title.x =</span> <span class="fu">element_text</span>(<span class="at">size =</span> <span class="dv">12</span>),</span>
+<span id="cb8-28"><a href="#cb8-28" aria-hidden="true" tabindex="-1"></a>    <span class="at">axis.title.y =</span> <span class="fu">element_text</span>(<span class="at">size =</span> <span class="dv">12</span>),</span>
+<span id="cb8-29"><a href="#cb8-29" aria-hidden="true" tabindex="-1"></a>    <span class="at">plot.title =</span> <span class="fu">element_text</span>(<span class="at">size =</span> <span class="dv">16</span>, <span class="at">face =</span> <span class="st">"bold"</span>),</span>
+<span id="cb8-30"><a href="#cb8-30" aria-hidden="true" tabindex="-1"></a>    <span class="at">plot.subtitle =</span> <span class="fu">element_text</span>(<span class="at">size =</span> <span class="dv">10</span>),</span>
+<span id="cb8-31"><a href="#cb8-31" aria-hidden="true" tabindex="-1"></a>    <span class="at">plot.caption =</span> <span class="fu">element_text</span>(<span class="at">size=</span><span class="dv">10</span>, <span class="at">hjust =</span> <span class="dv">0</span>)</span>
+<span id="cb8-32"><a href="#cb8-32" aria-hidden="true" tabindex="-1"></a>  )</span></code></pre></div><button title="Copy to Clipboard" class="code-copy-button"><i class="bi"></i></button></div>
+</details>
+<div class="cell-output-display">
+<div>
+<figure class="figure">
+<p><img src="index_files/figure-html/unnamed-chunk-4-1.png" class="img-fluid figure-img" width="672"></p>
+</figure>
+</div>
+</div>
+</div>
+<p>The scatter plot shows a clear shift after the pitch clock was introduced: both walks and strikeouts declined in the seasons that followed. Besides in 2023 when walks and strikeouts increased after the pitch-clock was introduced, so it took a year for the pitchers to get used to the change. But, for 2024 and 2025 T pitchers were working faster and relying less on deep, extended counts. The pitch clock allowed fewer walks, fewer strikeouts, and more balls put in play. This trend suggests that the pitch clock didn’t just change the pace of the game; it reshaped how pitchers approached hitters.</p>
+<p>Overall, the data suggest that batters initially struggled when the pitch clock was introduced in 2023. Contact Efficiency dipped as hitters rushed their swings, leading to fewer quality at-bats. However, by 2025, hitters had adjusted, and BIP per strikeout rebounded, showing that batters regained their timing and were able to generate offense at similar levels as before. League-wide OPS, OBP, and SLG remained largely steady from 2020 to 2025, indicating that overall offensive production did not dramatically change, even with the faster pace.</p>
+<p>On the pitcher side, the scatter plot shows that both walks and strikeouts decreased after the rule change, suggesting pitchers worked faster and relied less on long at-bats. While they may have gained an early advantage in 2023, by 2024–2025 their command stabilized, and the pace of the game created more balls in play rather than extreme outcomes. Taken together, this evidence indicates that hitters ultimately adapted faster, while pitchers saw only temporary gains. Therefore, while both sides felt the impact of the pitch clock, batters appear to have benefited more in the long run by adjusting successfully to the new tempo.</p>
+<p>As every coach says, you can’t score unless you put the ball in play, and that’s exactly what batters are doing more consistently since the pitch clock change.</p>
 
 
 

diff --git a/index.html b/index.html
@@ -378,7 +378,7 @@ window.Quarto = {
 
 <div class="quarto-listing quarto-listing-container-default" id="listing-listing">
 <div class="list quarto-listing-default">
-<div class="quarto-post image-right" data-index="0" data-categories="TUxC" data-listing-date-sort="1762927200000" data-listing-file-modified-sort="1763062196959" data-listing-date-modified-sort="NaN" data-listing-reading-time-sort="5" data-listing-word-count-sort="854">
+<div class="quarto-post image-right" data-index="0" data-categories="TUxC" data-listing-date-sort="1762927200000" data-listing-file-modified-sort="1763078371862" data-listing-date-modified-sort="NaN" data-listing-reading-time-sort="8" data-listing-word-count-sort="1466">
 <div class="thumbnail"><a href="./posts/MLB-Pitch-Clock/index.html" class="no-external">
 
 <img loading="lazy" src="./posts/MLB-Pitch-Clock/image.png" class="thumbnail-image">
